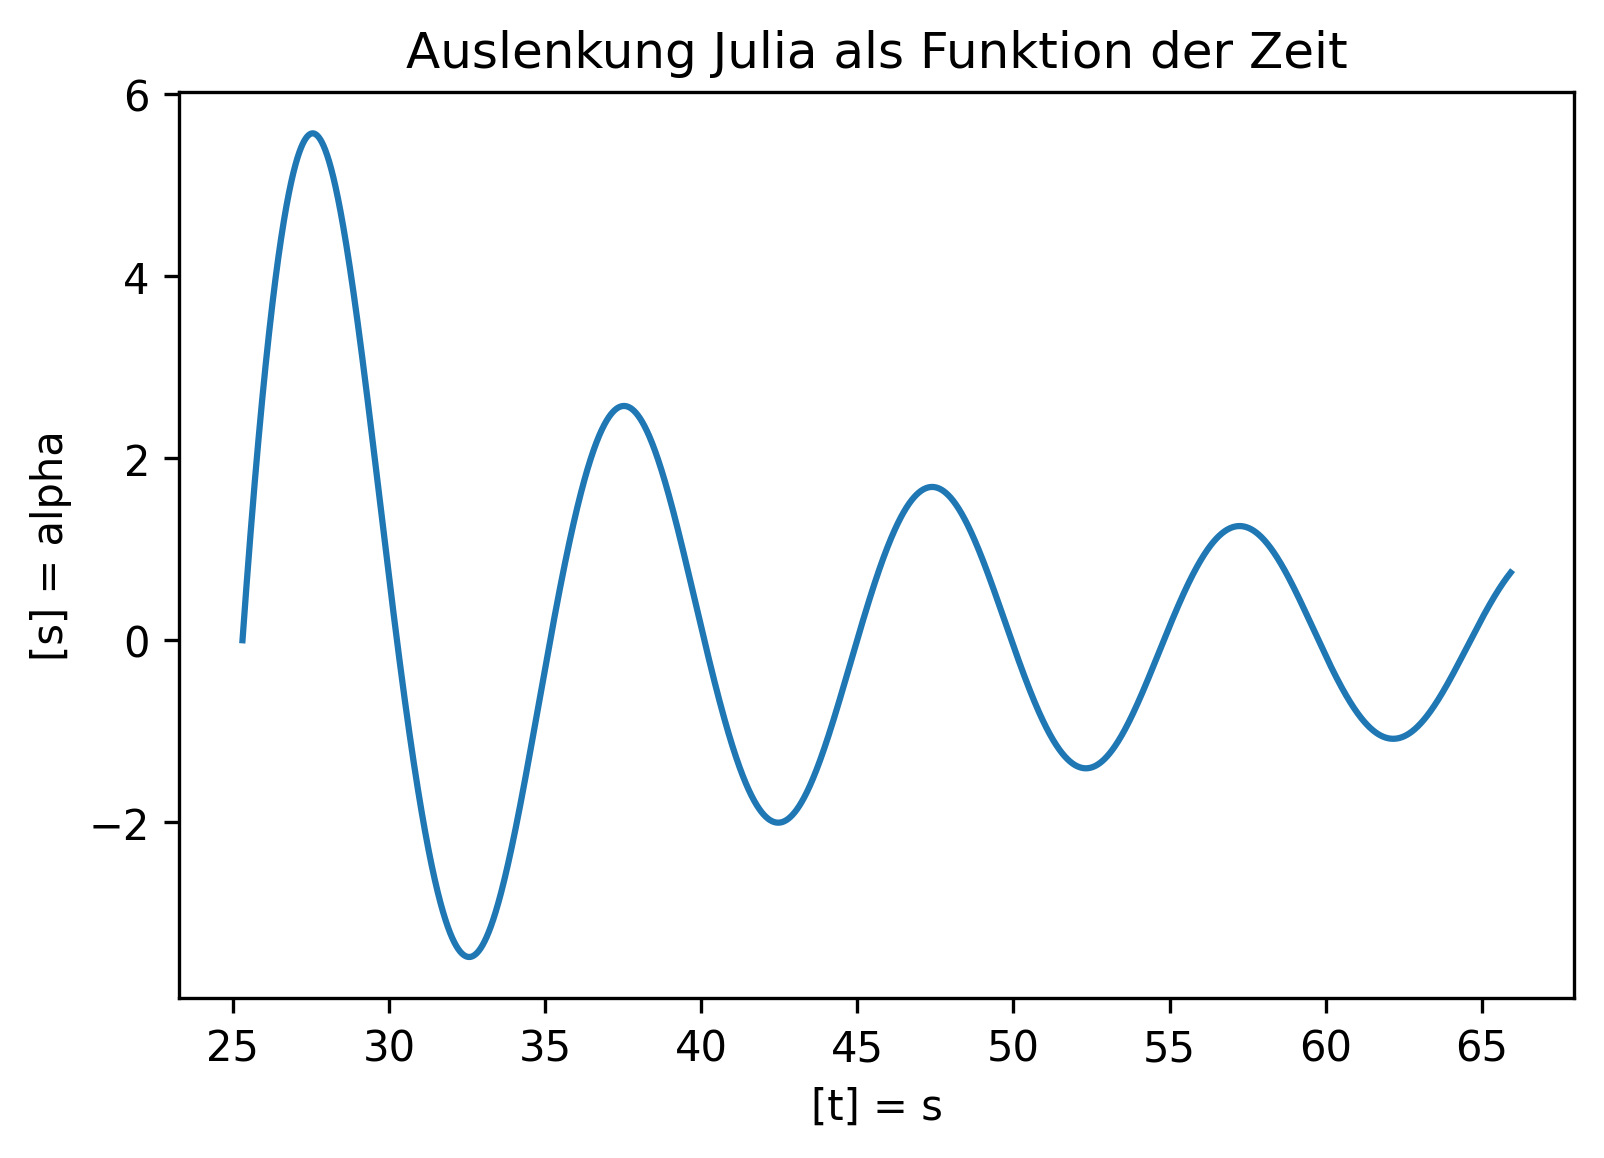
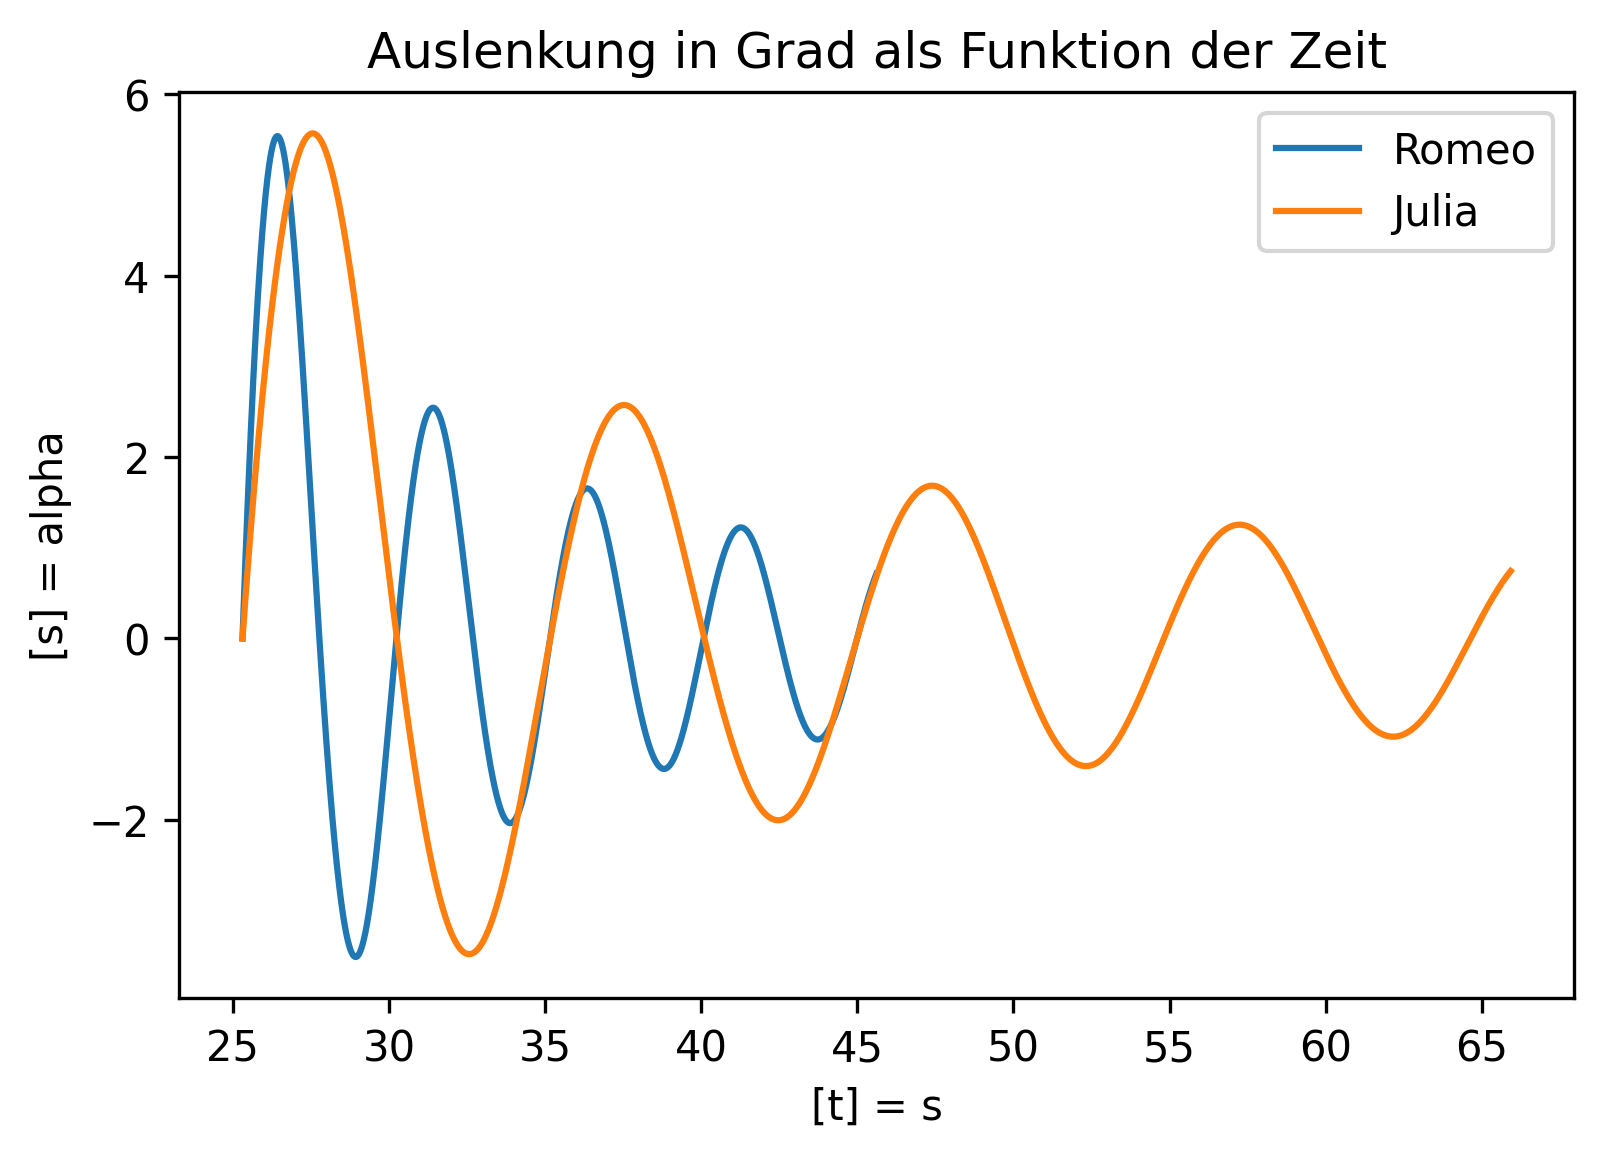
merged the plot to one

diff --git a/Semesterprojekt Physik Engines/subfiles/ResultateMitGrafischerDarstellung.tex b/Semesterprojekt Physik Engines/subfiles/ResultateMitGrafischerDarstellung.tex
@@ -59,29 +59,12 @@
 
     \subsection{Lab 3}
 
-    \begin{figure}[H]
-        \begin{center}
-            \centerline{\includegraphics[width=105mm]{./images/ropeRomeo/Ortdiagramm}}
-            \caption{Romeo Ortsdiagramm}
-            \label{fig:RomeoOrtsdiagramm}
-        \end{center}
-    \end{figure}
-
-
-    \begin{figure}[H]
-        \begin{center}
-            \centerline{\includegraphics[width=105mm]{./images/ropeRomeo/AuslenkungDeg}}
-            \caption{Auslenkung Romeo in Grad als Funktion der Zeit}
-            \label{fig:AuslenkungRomeo}
-        \end{center}
-    \end{figure}
-
 
     \begin{figure}[H]
         \begin{center}
             \centerline{\includegraphics[width=105mm]{./images/ropeJulia/Ortdiagramm}}
-            \caption{Julia Ortsdiagramm}
-            \label{fig:JuliaOrtsdiagramm}
+            \caption{Romeo \& Julia Ortsdiagramm}
+            \label{fig:RomeoJuliaOrtsdiagramm}
         \end{center}
     \end{figure}
 
@@ -89,8 +72,8 @@
     \begin{figure}[H]
         \begin{center}
             \centerline{\includegraphics[width=105mm]{./images/ropeJulia/AuslenkungDeg}}
-            \caption{Auslenkung Julia in Grad als Funktion der Zeit}
-            \label{fig:AuslenkungJulia}
+            \caption{Auslenkung in Grad als Funktion der Zeit}
+            \label{fig:Auslenkung}
         \end{center}
     \end{figure}
 

diff --git a/UnityProj/graphSwingJulia.py b/UnityProj/graphSwingJulia.py
@@ -9,20 +9,25 @@ import pandas as pd
 import matplotlib.pyplot as plt
 
 
-df = pd.read_csv("./TimeSeries/timeSeriesRopeJulia.csv")
+df_rom = pd.read_csv("./TimeSeries/timeSeriesRopeRomeo.csv")
+df_jul = pd.read_csv("./TimeSeries/timeSeriesRopeJulia.csv")
 
 #plt.figure(figsize=(20,20))
-plt.plot(df[" cubeJulia.position.x"], df[" cubeJulia.position.y"])
+plt.plot(df_rom[" cubeRomeo.position.x"], df_rom[" cubeRomeo.position.y"], label="Romeo")
+plt.plot(df_jul[" cubeJulia.position.x"], df_jul[" cubeJulia.position.y"], label="Julia")
 plt.xlabel("Position x [s] = m")
 plt.ylabel("Position y [s] = m")
-plt.title("Bewegung Würfel Julia")
+plt.title("Bewegung Würfel Romeo & Julia")
+plt.legend()
 plt.savefig('../Semesterprojekt Physik Engines/images/ropeJulia/Ortdiagramm.png', dpi=300, bbox_inches='tight')
 plt.show()
 
 
-plt.plot(df["currentTimeStep"],df[" degree"])
+plt.plot(df_rom["currentTimeStep"],df_rom["degree"], label="Romeo")
+plt.plot(df_jul["currentTimeStep"],df_jul[" degree"], label="Julia")
 plt.ylabel("[s] = alpha")
 plt.xlabel("[t] = s")
+plt.legend()
 plt.title("Auslenkung in Grad als Funktion der Zeit")
 plt.savefig('../Semesterprojekt Physik Engines/images/ropeJulia/AuslenkungDeg.png', dpi=300, bbox_inches='tight')
 plt.show()
